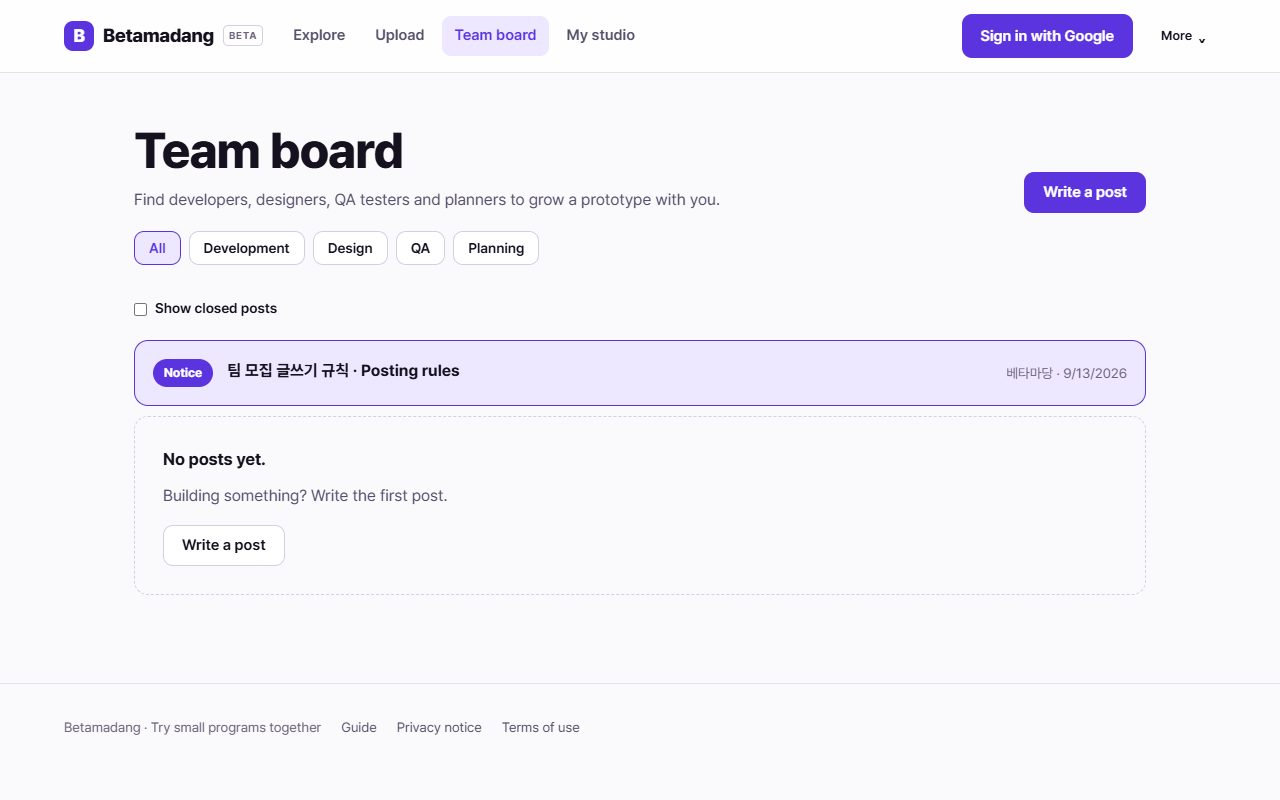
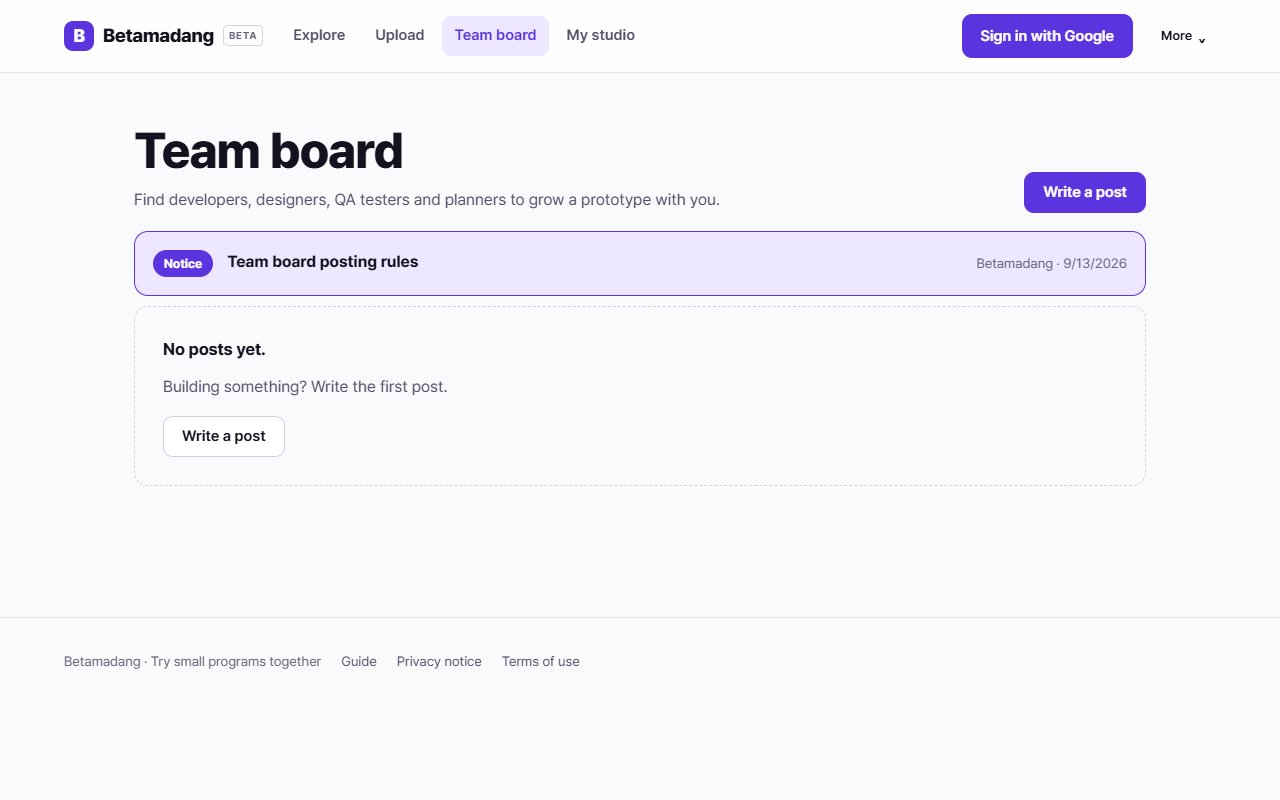
Point to the English posting rules and refresh the team board shot

diff --git a/README.md b/README.md
@@ -14,7 +14,7 @@ No installation or sign-in is needed to try a public work. Google sign-in unlock
 
 Have something that already runs but needs more hands? Post it on the team board and say who you are looking for. It is one board with role tags for **Development, Design, QA, and Planning**, so every post is in the same place and you can filter by the role you offer.
 
-[Open the team board](https://betamadang.web.app/en/team?utm_source=github&utm_medium=readme&utm_campaign=team_launch) · [팀 모집 게시판](https://betamadang.web.app/team?utm_source=github&utm_medium=readme&utm_campaign=team_launch) · [Read the posting rules](https://betamadang.web.app/en/team/posting-rules?utm_source=github&utm_medium=readme&utm_campaign=team_launch)
+[Open the team board](https://betamadang.web.app/en/team?utm_source=github&utm_medium=readme&utm_campaign=team_launch) · [팀 모집 게시판](https://betamadang.web.app/team?utm_source=github&utm_medium=readme&utm_campaign=team_launch) · [Read the posting rules](https://betamadang.web.app/en/team/posting-rules-en?utm_source=github&utm_medium=readme&utm_campaign=team_launch)
 
 [![Team board with the pinned posting rules](images/team-board.jpg)](https://betamadang.web.app/en/team?utm_source=github&utm_medium=readme&utm_campaign=team_launch)
 
